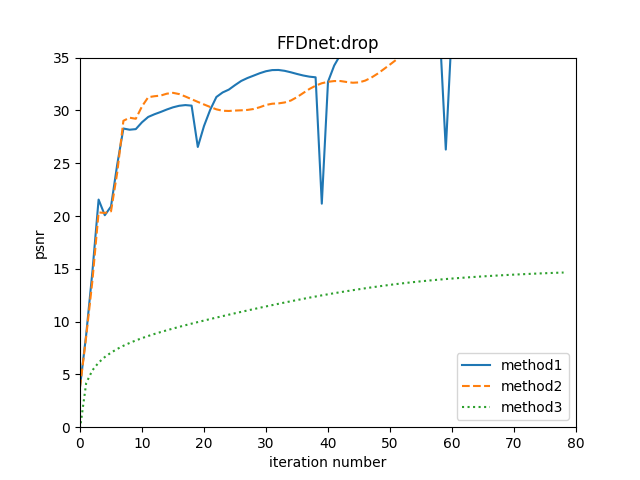
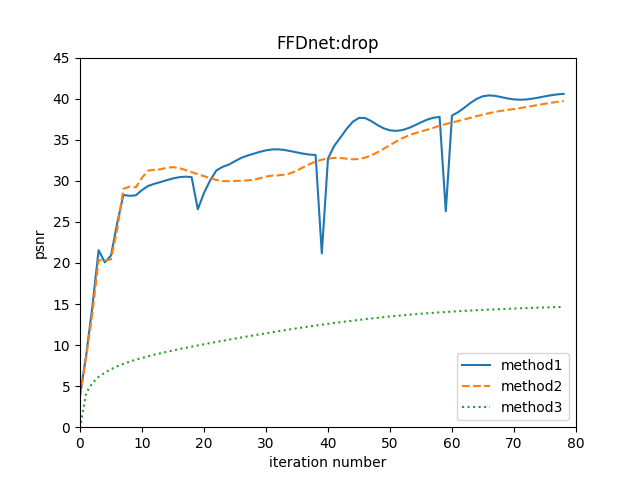
[fix] file
fix file

diff --git a/make_graph.py b/make_graph.py
@@ -5,9 +5,9 @@ import os
 
 dir_path = "/home/jovyan/workdir/results/savedmat"
 # alldatname = ['kobe32','traffic48','runner40','drop40','crash32','aerial32']
-dataname = 'kobe32'
+dataname = 'traffic48'
 data_path = "/grayscale/"+dataname+"/data/"
-# file_names = ["gapffdnet_psnr_method1", "gapffdnet_psnr_method2", "gapffdnet_psnr_method3"]
+file_names = ["gapffdnet_psnr_method1", "gapffdnet_psnr_method2", "gapffdnet_psnr_method3"]
 # file_names = ["gapfastdvdnet_psnr_method1", "gapfastdvdnet_psnr_method2", "gapfastdvdnet_psnr_method3"]
 # file_names = ["gapfastdvdnet_psnr_method1_tv_initialize1", "gapfastdvdnet_psnr_method2_tv_initialize1", "gapfastdvdnet_psnr_method3_tv_initialize1"]
 # file_names = ["gapfastdvdnet_psnr_method1_tv_initialize5", "gapfastdvdnet_psnr_method2_tv_initialize5", "gapfastdvdnet_psnr_method3_tv_initialize5"]
@@ -15,7 +15,7 @@ data_path = "/grayscale/"+dataname+"/data/"
 # file_names = ["gapfastdvdnet_psnr_method1", "gapfastdvdnet_psnr_method2", "gapfastdvdnet_psnr_method3", "gapfastdvdnet_psnr_method4", "gapfastdvdnet_psnr_method5"]
 # file_names = ["gapfastdvdnet_psnr_method1_tv_initialize1", "gapfastdvdnet_psnr_method2_tv_initialize1", "gapfastdvdnet_psnr_method3_tv_initialize1", "gapfastdvdnet_psnr_method4_tv_initialize1", "gapfastdvdnet_psnr_method5_tv_initialize1"]
 
-file_names = ["gapffdnet_psnr_method1", "gapffdnet_psnr_method2", "gapffdnet_psnr_method3", "gapffdnet_psnr_method8"]
+# file_names = ["gapffdnet_psnr_method1", "gapffdnet_psnr_method2", "gapffdnet_psnr_method3", "gapffdnet_psnr_method8"]
 # file_names = ["gapfastdvdnet_psnr_method1", "gapfastdvdnet_psnr_method2", "gapfastdvdnet_psnr_method3", "gapfastdvdnet_psnr_method8"]
 # file_names = ["gapfastdvdnet_psnr_method1", "gapfastdvdnet_psnr_method2", "gapfastdvdnet_psnr_method3", "gapfastdvdnet_psnr_method8", "gapfastdvdnet_psnr_method6", "gapfastdvdnet_psnr_method7"]
 
@@ -68,18 +68,18 @@ for file_path in file_paths:
 # plt.savefig(curr_gragh_path)
 
 # FFDnet
-# fig = plt.figure(0)
-# plt.plot(data[0], linestyle = "-", label = "method1")
-# plt.plot(data[1], linestyle = "--", label = "method2")
-# plt.plot(data[2], linestyle = ":", label = "method3")
-# plt.title("FFDnet:{}".format(dataname[:-2]))
-# plt.ylim([0,35])
-# plt.xlim([0,80])
-# plt.legend(loc = "lower right")
-# plt.xlabel("iteration number")
-# plt.ylabel("psnr")
-# curr_gragh_path = gragh_path + "{}.png".format("ffdnet3")
-# plt.savefig(curr_gragh_path)
+fig = plt.figure(0)
+plt.plot(data[0], linestyle = "-", label = "method1")
+plt.plot(data[1], linestyle = "--", label = "method2")
+plt.plot(data[2], linestyle = ":", label = "method3")
+plt.title("FFDnet:{}".format(dataname[:-2]))
+plt.ylim([0,35])
+plt.xlim([0,80])
+plt.legend(loc = "lower right")
+plt.xlabel("iteration number")
+plt.ylabel("psnr")
+curr_gragh_path = gragh_path + "{}.png".format("ffdnet3")
+plt.savefig(curr_gragh_path)
 
 # TVで初期化したやつ
 # fig = plt.figure(0)
@@ -126,20 +126,20 @@ for file_path in file_paths:
 # plt.savefig(curr_gragh_path)
 
 # FFDnet 4つ
-fig = plt.figure(0)
-plt.plot(data[0], linestyle = "-", label = "method1")
-plt.plot(data[1], linestyle = "--", label = "method2")
-plt.plot(data[2], linestyle = ":", label = "method3")
-plt.plot(data[3], linestyle = "-.", label = "method4")
-# plt.plot(data[4], linestyle = (0, (5, 3, 1, 3, 1, 3)), label = "method5")
-plt.title("FFDnet:{}".format(dataname[:-2]))
-plt.ylim([0,35])
-plt.xlim([0,80])
-plt.legend(loc = "lower right")
-plt.xlabel("iteration number")
-plt.ylabel("psnr")
-curr_gragh_path = gragh_path + "{}.png".format("ffdnet4")
-plt.savefig(curr_gragh_path)
+# fig = plt.figure(0)
+# plt.plot(data[0], linestyle = "-", label = "method1")
+# plt.plot(data[1], linestyle = "--", label = "method2")
+# plt.plot(data[2], linestyle = ":", label = "method3")
+# plt.plot(data[3], linestyle = "-.", label = "method4")
+# # plt.plot(data[4], linestyle = (0, (5, 3, 1, 3, 1, 3)), label = "method5")
+# plt.title("FFDnet:{}".format(dataname[:-2]))
+# plt.ylim([0,35])
+# plt.xlim([0,80])
+# plt.legend(loc = "lower right")
+# plt.xlabel("iteration number")
+# plt.ylabel("psnr")
+# curr_gragh_path = gragh_path + "{}.png".format("ffdnet4")
+# plt.savefig(curr_gragh_path)
 
 # 6つ
 # fig = plt.figure(0)
